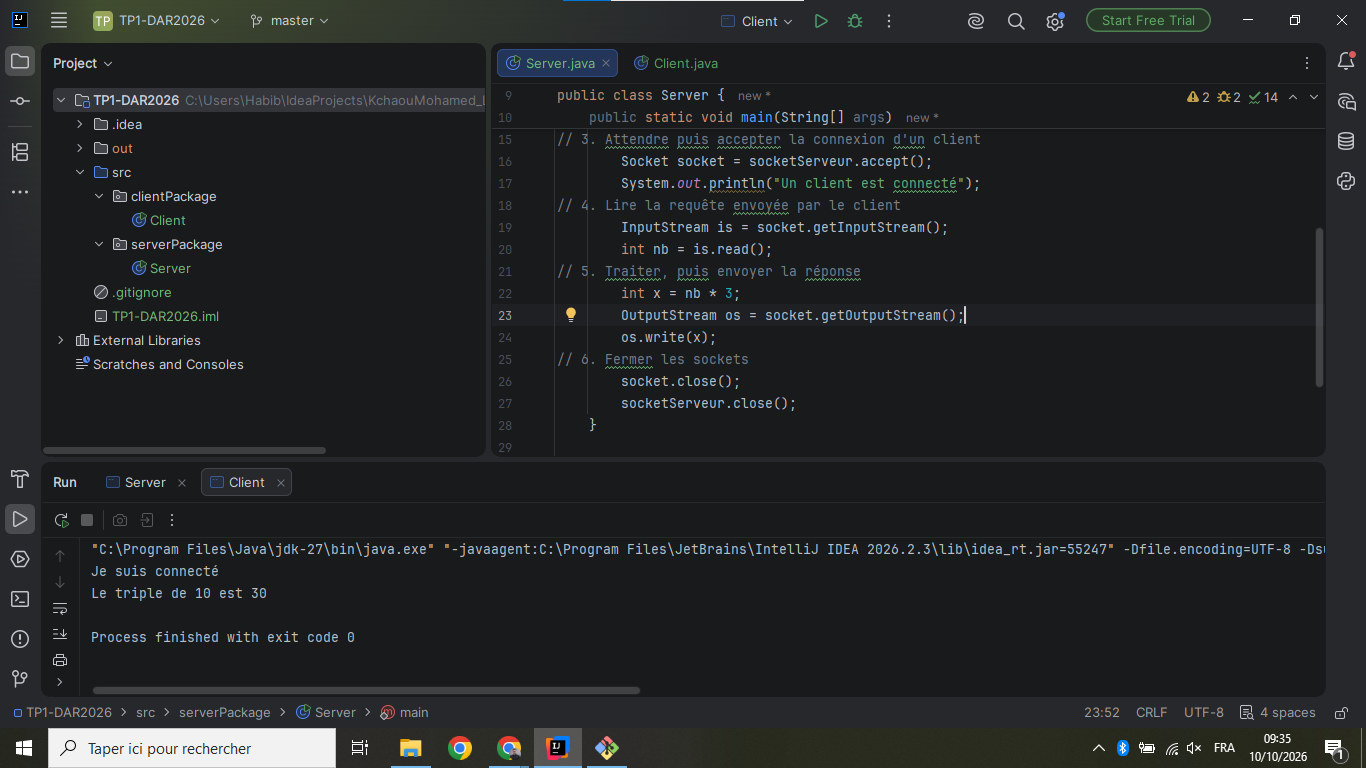
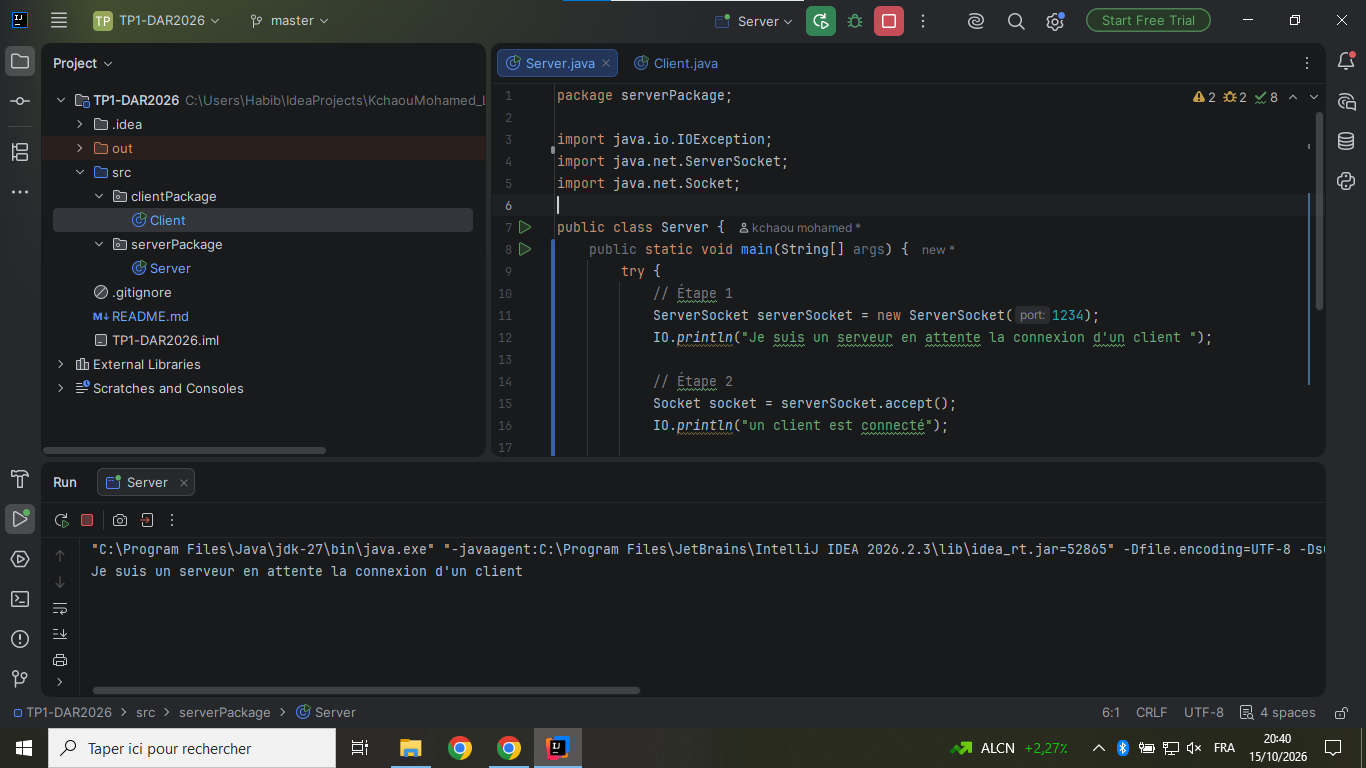
TP1 Activité 1-1

diff --git a/src/serverPackage/Server.java b/src/serverPackage/Server.java
@@ -1,30 +1,24 @@
 package serverPackage;
 
 import java.io.IOException;
-import java.io.InputStream;
-import java.io.OutputStream;
 import java.net.ServerSocket;
 import java.net.Socket;
 
 public class Server {
-    public static void main(String[] args)
-            throws IOException {
-// 1. Créer la socket d'écoute sur le port 1234
-        ServerSocket socketServeur = new ServerSocket(1234);
-        System.out.println("Le serveur attend un client...");
-// 3. Attendre puis accepter la connexion d'un client
-        Socket socket = socketServeur.accept();
-        System.out.println("Un client est connecté");
-// 4. Lire la requête envoyée par le client
-        InputStream is = socket.getInputStream();
-        int nb = is.read();
-// 5. Traiter, puis envoyer la réponse
-        int x = nb * 3;
-        OutputStream os = socket.getOutputStream();
-        os.write(x);
-// 6. Fermer les sockets
-        socket.close();
-        socketServeur.close();
-    }
+    public static void main(String[] args) {
+        try {
+            // Étape 1
+            ServerSocket serverSocket = new ServerSocket(1234);
+            IO.println("Je suis un serveur en attente la connexion d'un client ");
 
+            // Étape 2
+            Socket socket = serverSocket.accept();
+            IO.println("un client est connecté");
+
+            // Étape 3
+            socket.close();
+            serverSocket.close();
+        } catch (IOException _) {
+        }
+    }
 }

diff --git a/src/clientPackage/Client.java b/src/clientPackage/Client.java
@@ -1,24 +1,18 @@
 package clientPackage;
 
 import java.io.IOException;
-import java.io.InputStream;
-import java.io.OutputStream;
 import java.net.Socket;
 
 public class Client {
-    public static void main(String[] args)
-            throws IOException {
-// 2. Se connecter au serveur : adresse + port
-        Socket socket = new Socket("localhost", 1234);
-        System.out.println("Je suis connecté");
-// 4. Envoyer la requête
-        OutputStream os = socket.getOutputStream();
-        os.write(10);
-// 5. Attendre et lire la réponse
-        InputStream is = socket.getInputStream();
-        int resultat = is.read();
-        System.out.println("Le triple de 10 est " + resultat);
-// 6. Fermer la socket
+    public static void main(String[] args) {
+        try {
+            IO.println("Je suis un client pas encore connecté…");
 
+            Socket socket = new Socket("localhost", 1234);
+            IO.println("je suis un client connecté");
+
+            socket.close();
+        } catch (IOException _) {
+        }
     }
 }

diff --git a/README.md b/README.md
@@ -1,2 +1,4 @@
-![img.png](img.png)
+Le JDK utilisé dans ce tp est JDK 27 
+![img.png](img.png) 
 ![img_1.png](img_1.png)
+![img_2.png](img_2.png)
